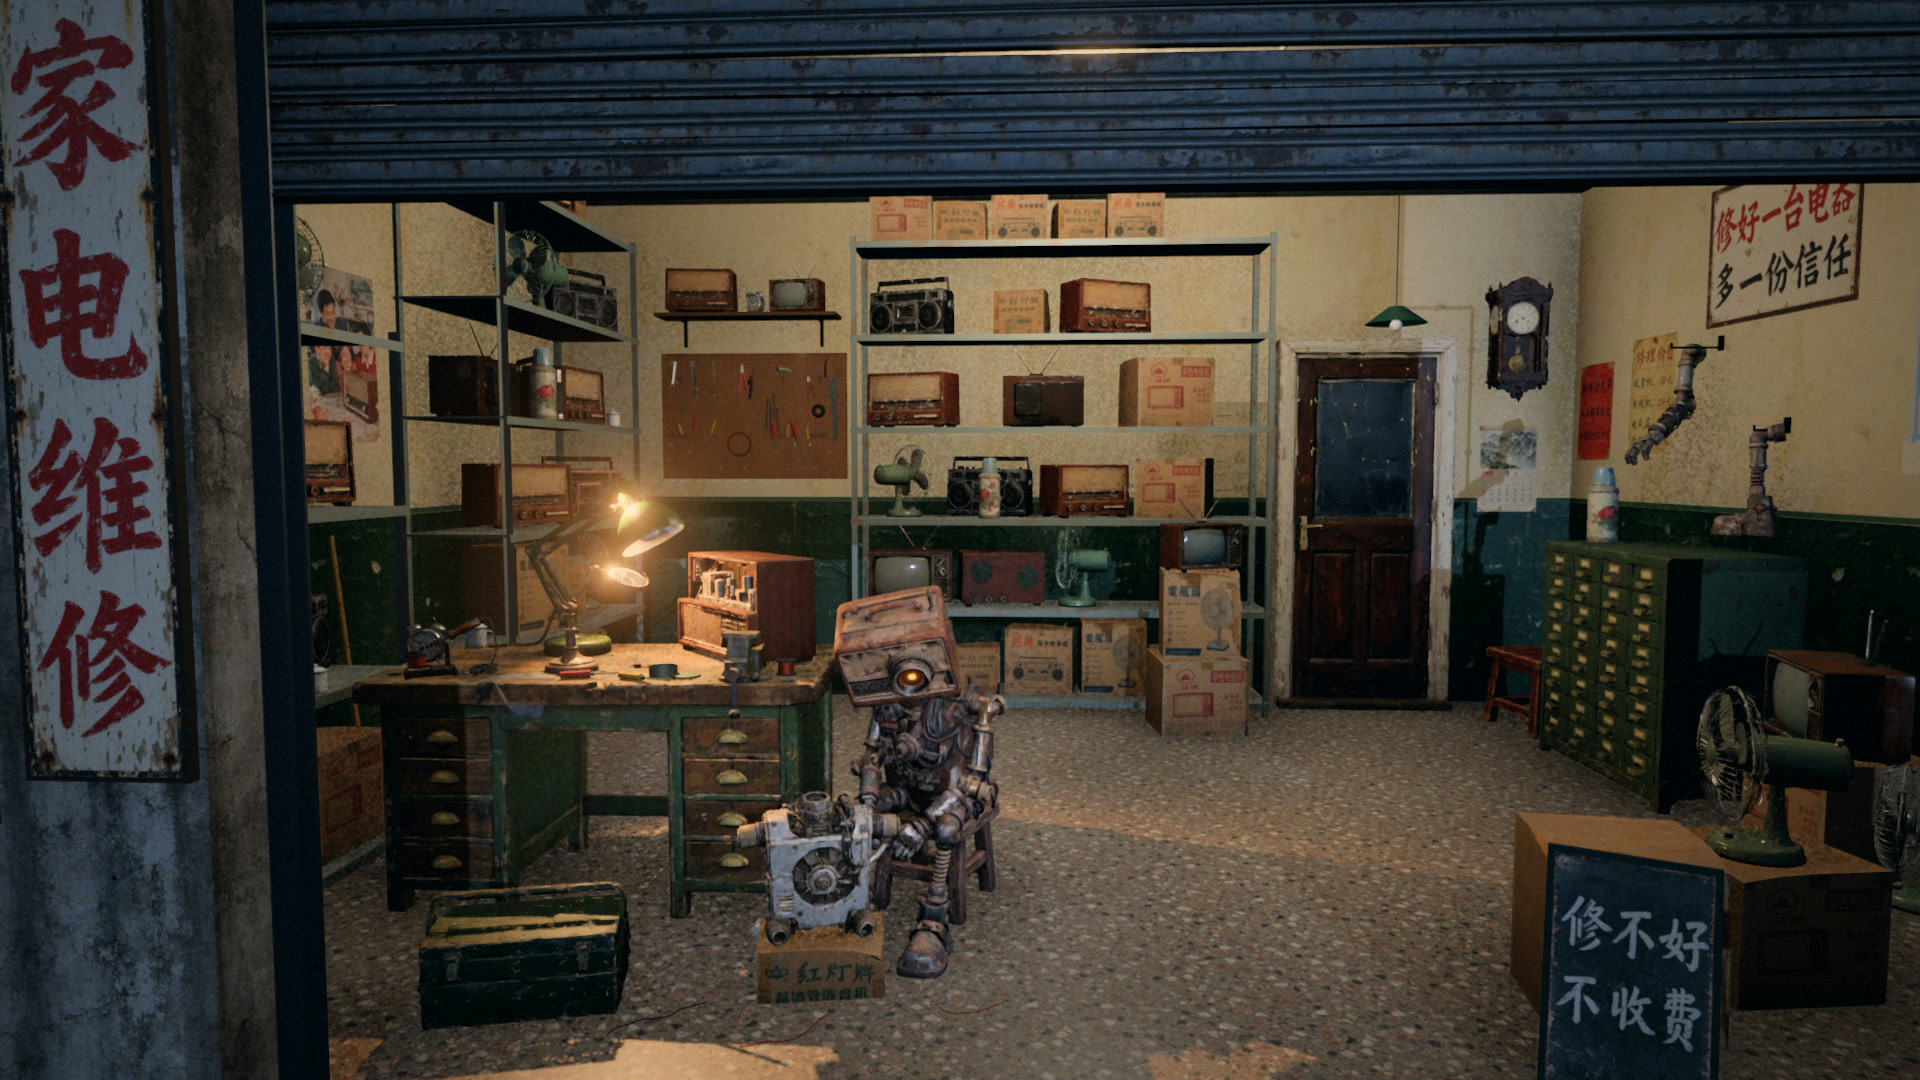
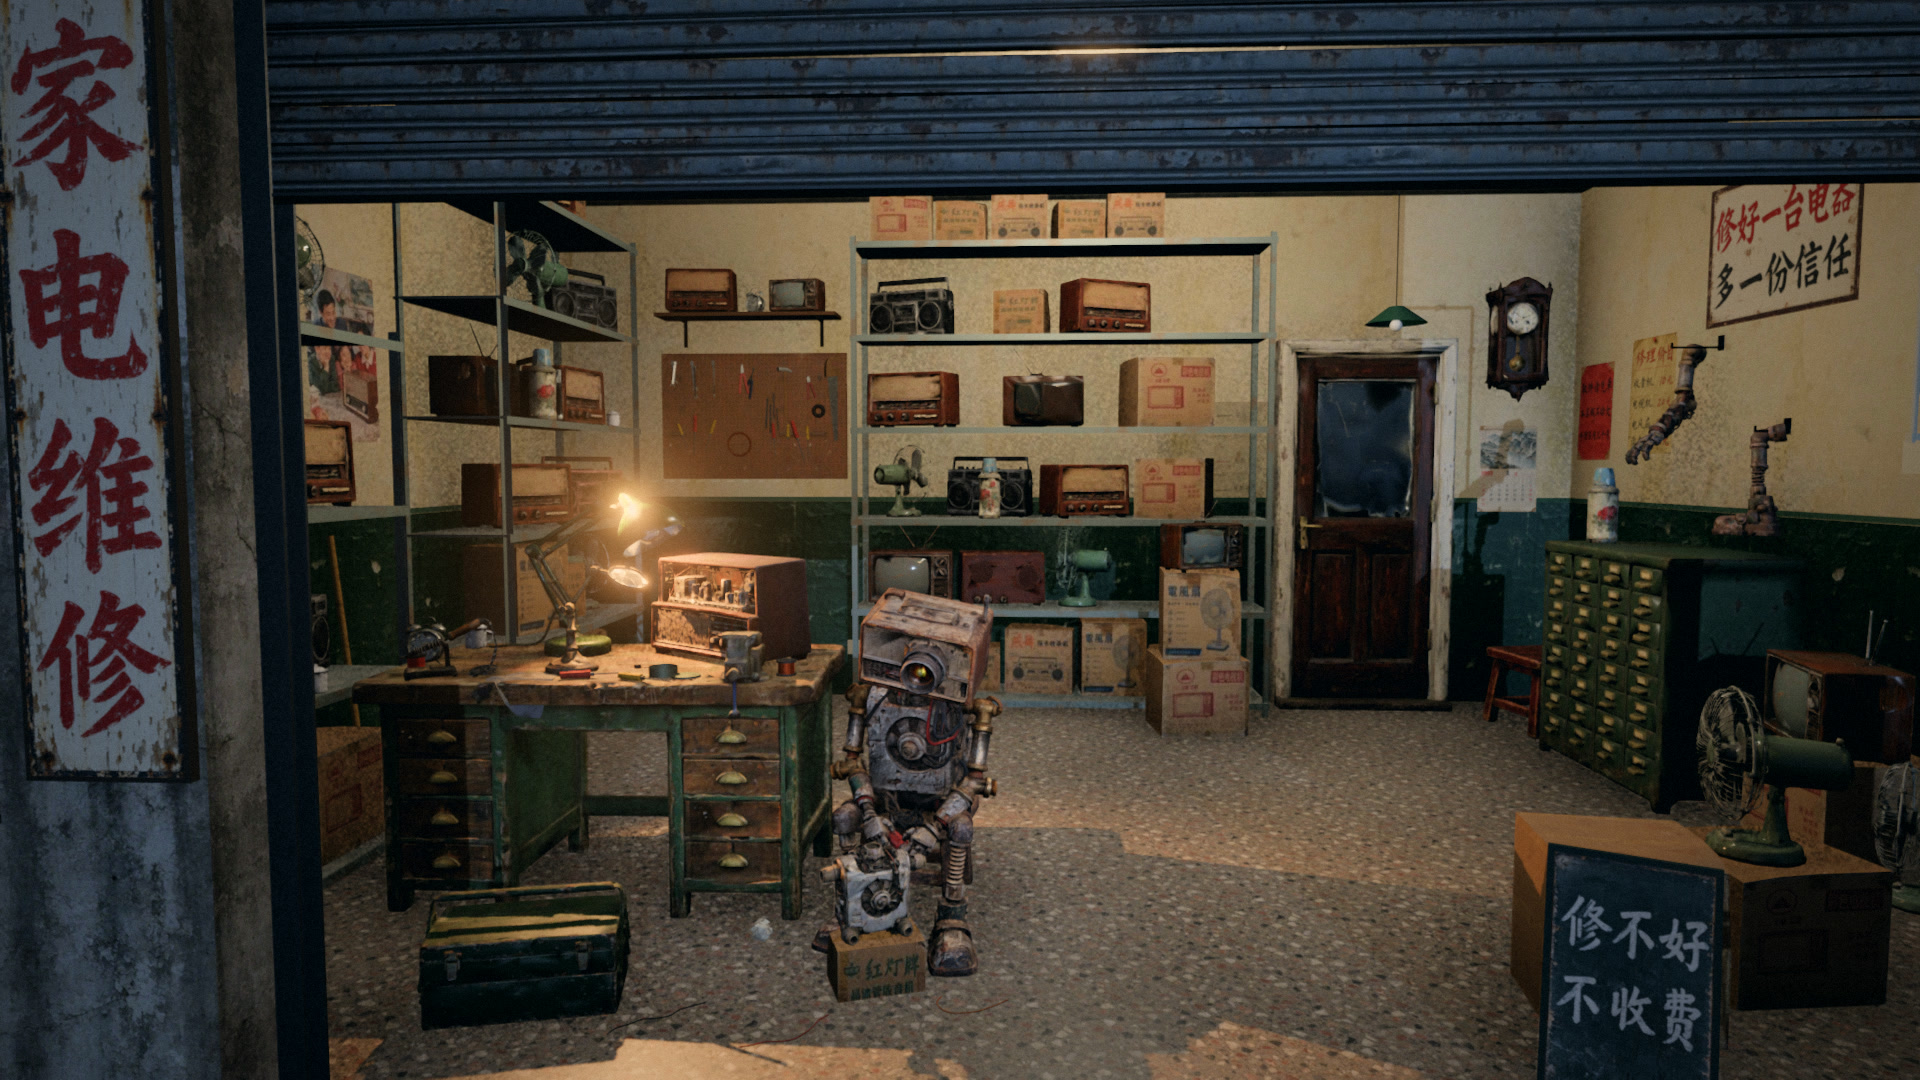
docs: raw-mesh LOD approach, new snaps, A/B review set

diff --git a/docs/tripo-compare/README.md b/docs/tripo-compare/README.md
@@ -35,3 +35,17 @@
 - Codex 对 Studio H3.1 收音机(10.5 万面)的意见:中间那组电子管被抹平简化;对 P2.0 收音机:金属底盘大面积缺失、面板弯曲。
 - 机器人 P2.0:Codex 指出双手之间的改锥不完整、握持关系含糊(和我看到的穿插错位一致);Grok 认为它没有问题。
 - 两家与我一致的地方:主角近景的机器人选 Studio H3.1;P2.0 收音机最差。我原先认为 Studio H3.1 收音机"近看和 190 万面版本差不多",两家都不同意,已更正为"最省面数,但近看不如 190 万面的版本"。
+
+
+## 网页里怎么显示原始模型(2026-10-19)
+
+不再用 Blender 合并减面(会撕开贴图接缝,出现白色裂纹和"黏连")。每个模型做成几级(`tools/lod-build.mjs`,批量 `tools/lod-all.sh`,清单 `tools/lod-models.json`):
+
+- **L0 = Tripo 原始网格本身**,一个三角面都不少,原始贴图分辨率(收音机 4K,机器人 8K),只做无损级别的压缩(meshopt 几何、KTX2 贴图,画质 PSNR 43 dB)。
+- **L1–L3**:保留贴图接缝的 meshopt 简化,每级记下实测误差(0.3–6 毫米)和贴图密度;接缝太碎、简化不动的模型,允许在贴图坐标误差很小的地方合并接缝。
+- 运行时(`src/systems/shop/lod.js`)每个物件只显示误差小于 1 个屏幕像素、贴图不比屏幕粗的那一级:远处用简化级,走近或双击时自动换成 L0。开场只下载最远一级(全店约 35 MB),近景按需加载,显存上限 600 MB(4 GB 内存的设备 320 MB),用完自动释放。
+- 显示 L0 的物件用 L1 投影阴影(误差远小于阴影贴图的一个像素),否则每盏投影灯都要把 200 万面再画一遍。
+
+对比舞台里每个物件多了"网页版(随距离自动切换)"和 L0–L3,可以和原始文件拖分割条对比;面板显示当前用的是哪一级、多少面、误差多少。
+
+另外修了一个 three.js r186 WebGPU 的问题(`src/engine/threeFixes.js`):两个模型的顶点只是存储类型不同(法线 Int8 与 Int16)时,渲染器会让它们共用一条渲染管线,后画的那个读错顶点格式,表面出现迷彩一样的错乱光照;WebGL2 不受影响。

diff --git a/.agent-tasks/specs/r38-ab.md b/.agent-tasks/specs/r38-ab.md
@@ -1,0 +1,13 @@
+# 只读复审:同一场景的两个版本 A / B,比较模型近看质量
+
+背景:新游戏(three.js WebGPU)。1990 年代中国老街家电修理铺 + 旧家电拼成的机器人;目的是展示 Tripo 生成的 3D 模型质量。只评模型和摆放,灯光以后再做。
+
+看 `docs/review-shop/r17/` 里的 4 张 ab-*.jpg:每张左边是 A、右边是 B,同一个机位、同一套灯光,两个版本的模型数据不同(机器人也是两个不同的生成模型)。另有 sbs-establish.jpg(上为目标关键帧、下为 B 版本的门口全景)。
+
+要你做:
+1. 每张图里,A 和 B 哪个模型近看更好?按几何细节、贴图清晰度、破碎或撕裂感、穿插悬空各说一句。
+2. B 版本里还能看到的问题(最多 5 条,标出图和位置),每条给不生成新模型的改法。
+3. 只看 B:这能否让观众相信 AI 生成的 3D 模型可以搭出可信的场景?给 1–10 分。
+
+权限:只读,不联网,不调用付费生成,不启动浏览器、Blender、Vite 或长时间进程。
+交回:中文,700 字以内,直接在回复里;请在 8 分钟内交回。

diff --git a/.agent-tasks/specs/c39-ab.md b/.agent-tasks/specs/c39-ab.md
@@ -1,0 +1,13 @@
+# 只读复审:同一场景的两个版本 A / B,比较模型近看质量
+
+背景:新游戏(three.js WebGPU)。1990 年代中国老街家电修理铺 + 旧家电拼成的机器人;目的是展示 Tripo 生成的 3D 模型质量。只评模型和摆放,灯光以后再做。
+
+看 `docs/review-shop/r17/` 里的 4 张 ab-*.jpg:每张左边是 A、右边是 B,同一个机位、同一套灯光,两个版本的模型数据不同(机器人也是两个不同的生成模型)。另有 sbs-establish.jpg(上为目标关键帧、下为 B 版本的门口全景)。
+
+要你做:
+1. 每张图里,A 和 B 哪个模型近看更好?按几何细节、贴图清晰度、破碎或撕裂感、穿插悬空各说一句。
+2. B 版本里还能看到的问题(最多 5 条,标出图和位置),每条给不生成新模型的改法。
+3. 只看 B:这能否让观众相信 AI 生成的 3D 模型可以搭出可信的场景?给 1–10 分。
+
+权限:只读,不联网,不调用付费生成,不启动浏览器、Blender、Vite 或长时间进程。
+交回:中文,700 字以内,直接在回复里。

diff --git a/docs/shop-models.md b/docs/shop-models.md
@@ -33,3 +33,8 @@
 
 体积:模型 22.0 MB(含备用零件与复用的 2 个)+ 房间与贴花 KTX2 7.7 MB = 29.7 MB(计划上限 30 MB);打开店铺实际网络下载 31.7 MB(含程序 1.6 MB、解码器 0.5 MB,`node tools/shop-netbytes.mjs` 实测)。重复的模型(货架上的电视、收音机、风扇、录音机、杯子、闹钟、暖瓶)用实例化绘制。
 没做成的:小电视 crt_tv_small(Tripo API 余额用完,403/2010)。
+
+
+## 2026-10-19 起:原始网格 + 屏幕误差分级
+
+场景不再用上面表里的减面版本(`?nolod` 仍可看旧版)。所有模型改用 Tripo 原始文件做的分级版本,见 `docs/tripo-compare/README.md`「网页里怎么显示原始模型」。机器人换成 Studio H3.1(8K),工作台上的开盖收音机换成 CLI 生成的那台。分级文件在 `assets/models/shop/lod/<名字>/`(约 1 GB,不入库,`tools/lod-all.sh` 可从原始文件重新生成;`lod.json` 入库)。开场下载约 35 MB;走到近处会再按需下载该模型的 L0(收音机 38 MB,机器人 79 MB)。
